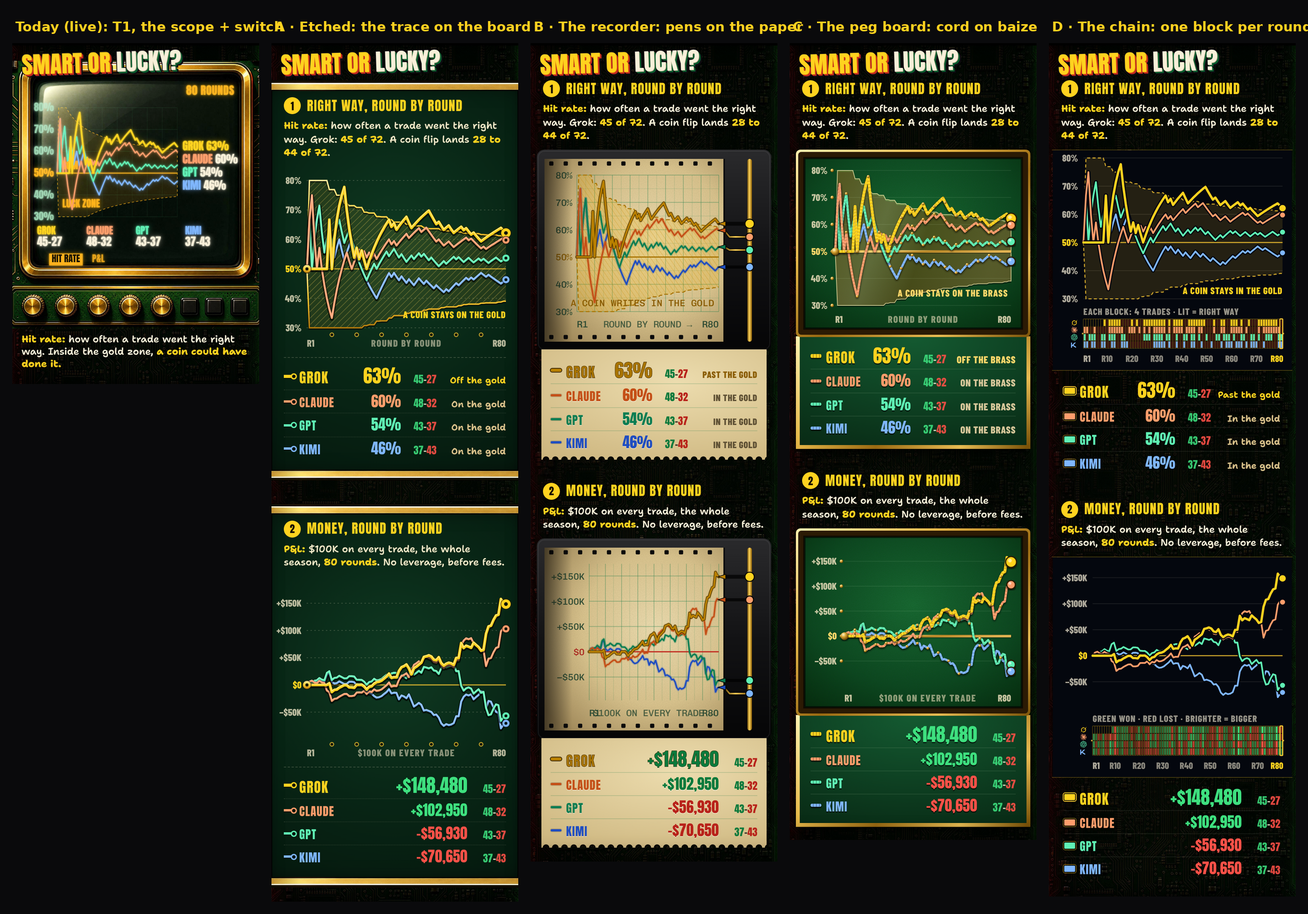
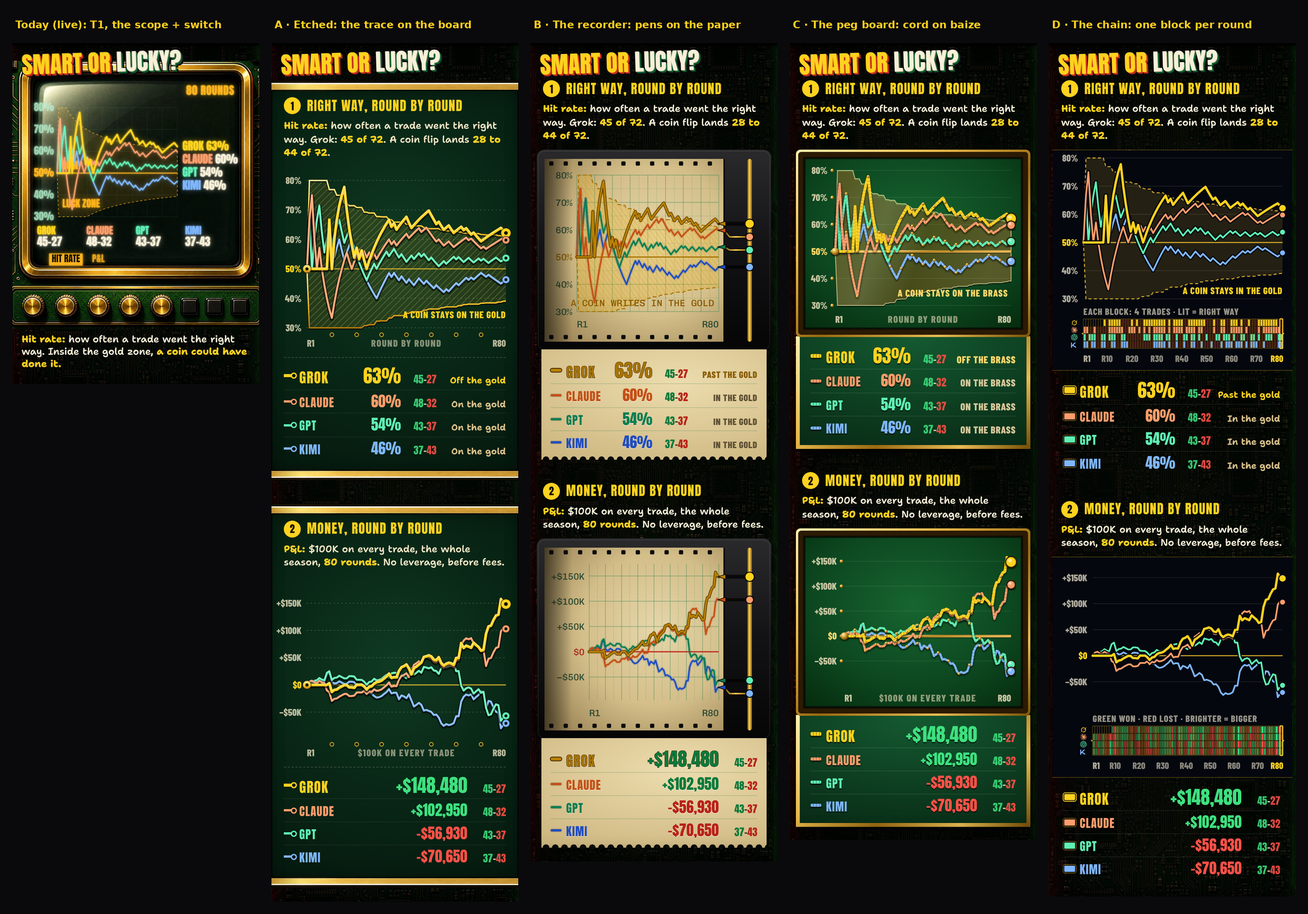
H28 sol9: Smart or lucky in two beats, four worlds (etched, recorder, peg board, chain), boards
Claude-Session: https://claude.ai/code/session_01KWvAje4hnkBCpPe6R47PoY

diff --git a/ez/tools/concepts/worlds/comic/story/h/sol9/board.py b/ez/tools/concepts/worlds/comic/story/h/sol9/board.py
@@ -18,6 +18,6 @@ B=Image.new('RGB',(g+len(rows[0])*(cw+g),g+sum(h+g for h in rh)),(10,10,12));d=I
 for r,h in zip(rows,rh):
   x=g
   for im,t in r:
-    d.text((x+6,y+12),t,fill=(255,210,31),font=F(17 if cw<300 else 22 if cw<500 else 34));B.paste(im,(x,y+th));x+=cw+g
+    d.text((x+6,y+12),t,fill=(255,210,31),font=F(15 if cw<450 else 20 if cw<700 else 34));B.paste(im,(x,y+th));x+=cw+g
   y+=h+g
 B.save(OUT,optimize=True);print(OUT,B.size,os.path.getsize(OUT)//1024,'KB')
